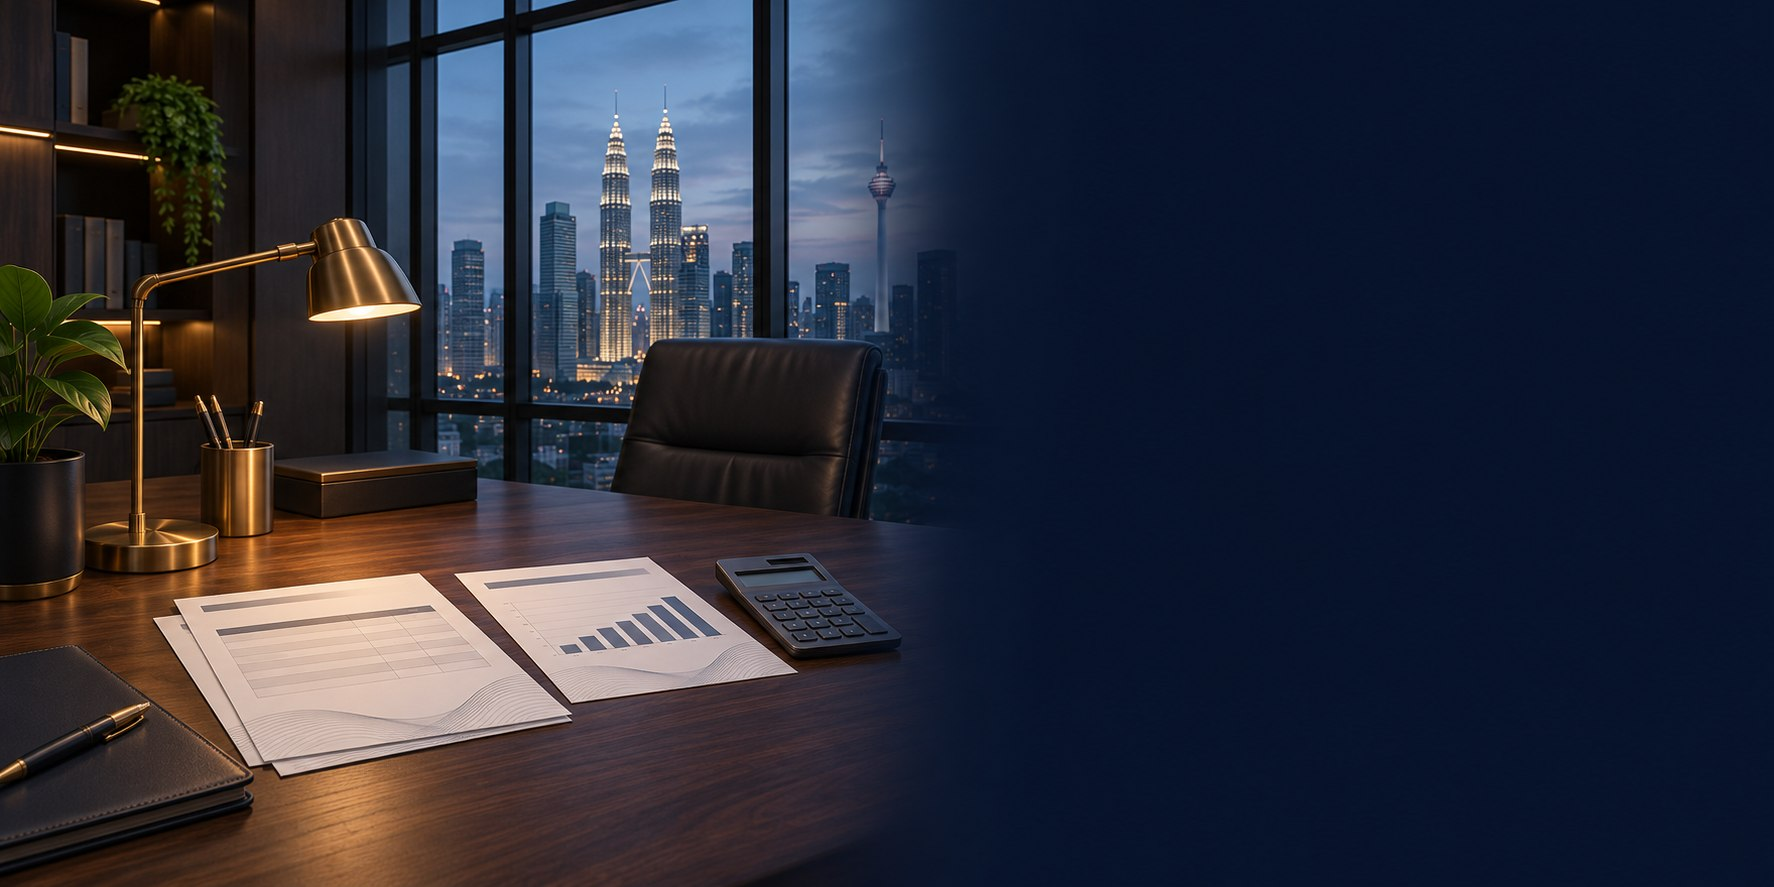
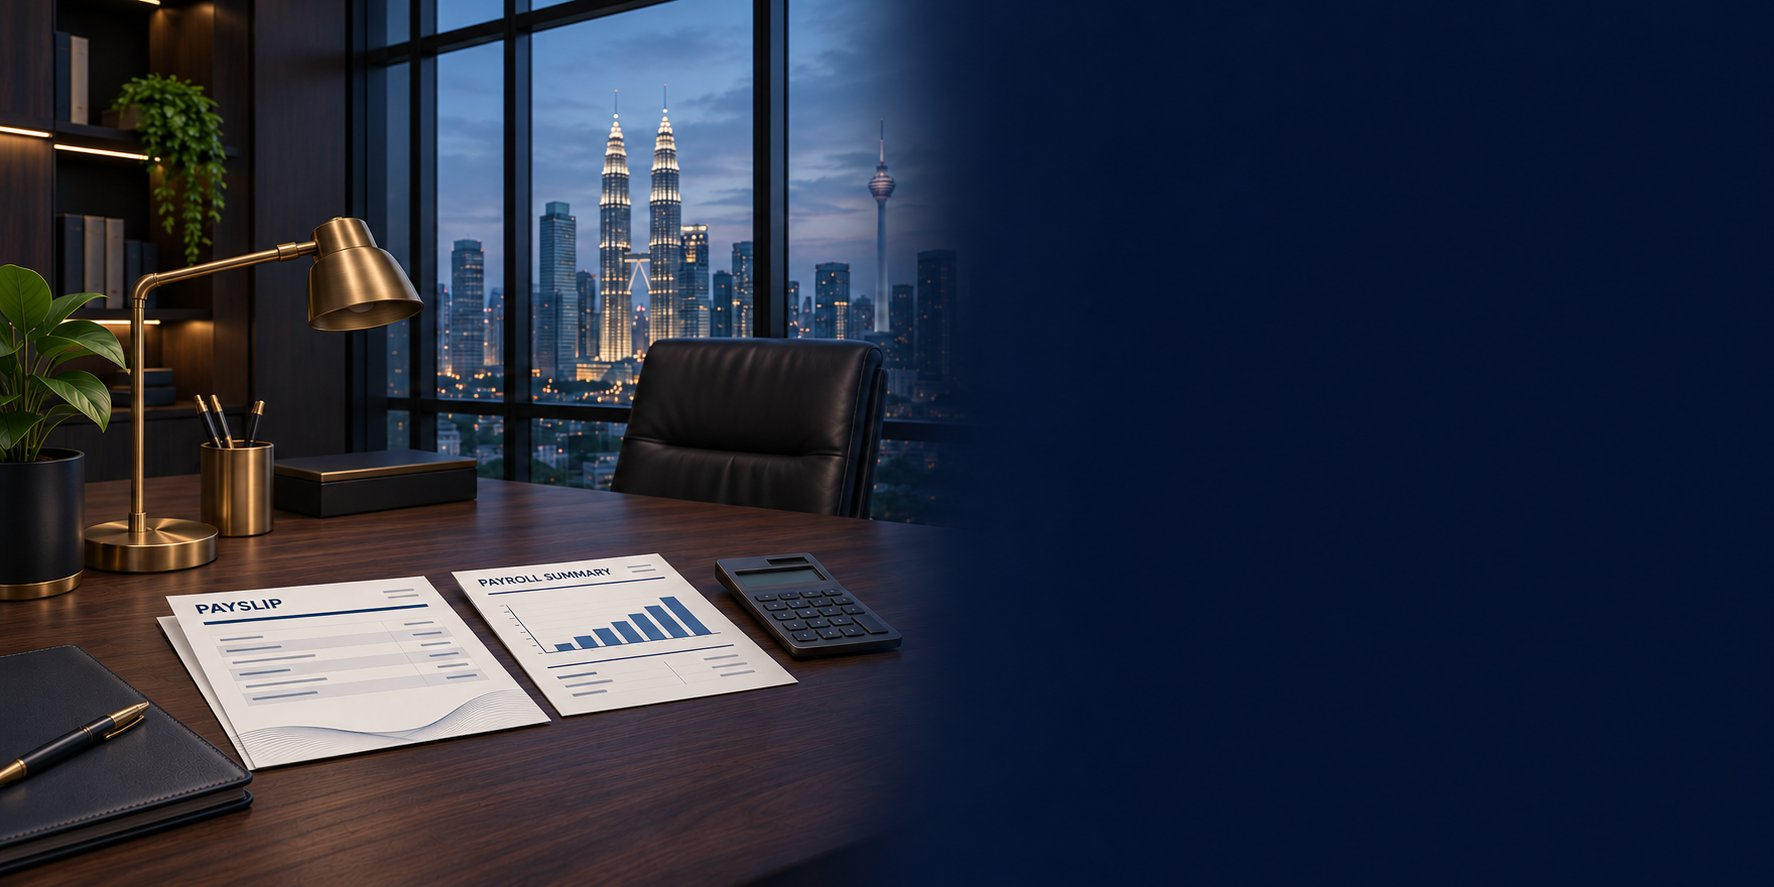
Use a naturally unlit office lamp and polished payroll artwork

diff --git a/lib/screens/login_screen.dart b/lib/screens/login_screen.dart
@@ -850,36 +850,10 @@ class _OfficeLighting extends CustomPainter {
       glow(.374, .24, .055, warmWhite, intensity);
     }
 
-    final lampOn = processing || light > 0;
-    if (!lampOn) {
-      // Screen-space masks follow the bulb and its reflection under BoxFit.cover.
-      final bulb = Rect.fromCenter(
-        center: origin + Offset(width * .205, height * .344),
-        width: width * .070,
-        height: height * .043,
-      );
-      final desk = Rect.fromCenter(
-        center: origin + Offset(width * .15, height * .67),
-        width: width * .36,
-        height: height * .42,
-      );
-      canvas.drawOval(
-        desk,
-        Paint()
-          ..shader = const RadialGradient(
-            colors: [Color(0x960A1019), Color(0x000A1019)],
-          ).createShader(desk),
-      );
-      canvas.drawOval(
-        bulb,
-        Paint()
-          ..shader = const RadialGradient(
-            colors: [Color(0xFF211C17), Color(0xFF211C17), Color(0x00211C17)],
-            stops: [0, .76, 1],
-          ).createShader(bulb),
-      );
-    } else {
-      glow(.205, .344, .15, const Color(0xFFFFC674), .27 + light * .27);
+    if (processing || light > 0) {
+      glow(.204, .348, .047, const Color(0xFFFFE3B2), .76);
+      glow(.203, .382, .13, const Color(0xFFFFC674), .18 + light * .12);
+      glow(.202, .642, .24, const Color(0xFFFFCC8A), .12 + light * .10);
     }
     glow(.35, .208, .11, const Color(0xFFF4DEAA), light * .52);
     glow(.367, .269, .15, const Color(0xFFFFE8B7), light * .32);
